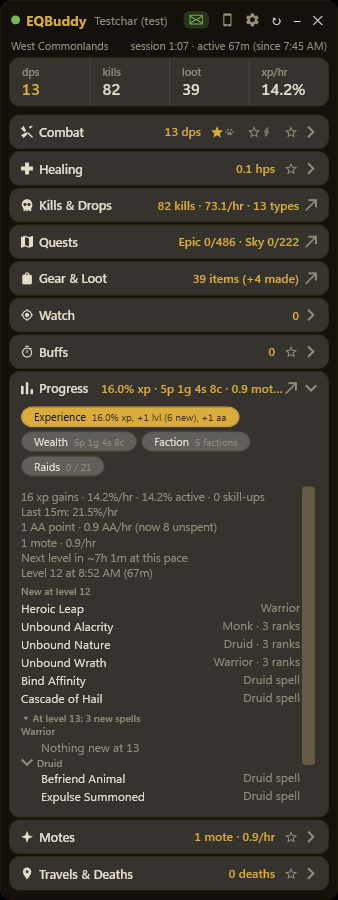
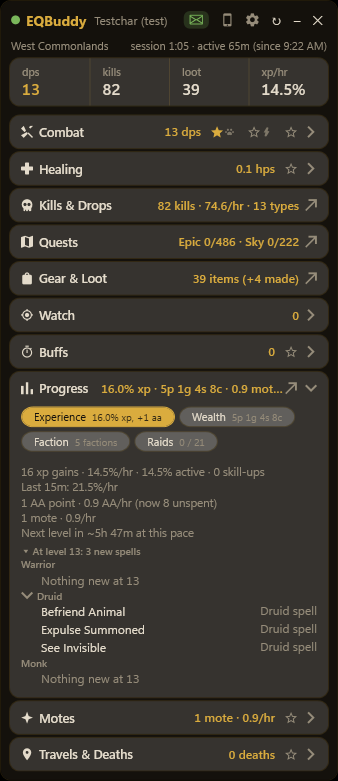
The phone's per-class headings said "undefined" — the wire key was wrong
Fable 5's v1.99.6 third pass, actioned. CompanionUnlockGroup declared its
property ClassName; JsonOpts is CamelCase, so the property name IS the wire
key, and it reached the page as `className` while every other group record on
that wire (CompanionBuffGroup, the quest group) says `class`. index.html reads
g.class at five sites, so on a real phone every per-class heading rendered
"▾ undefined" and every group shared ONE open/shut state, because they were all
keyed on the same undefined.

Verified all three of Fable's legs before touching anything — it said plainly
it had not run the serialiser — and it was right in every detail.

Renamed to Class, matching its siblings, which is the property that stops a
fourth group record inventing a third spelling.

**The check that passed was the wrong shape, and that is the real finding.**
The manual harness pass was fed a snapshot written BY HAND, in the shape the
page wanted rather than the shape the server sends — so it could not possibly
have revealed this. Trap 23 with a JSON key instead of a wiki template field.
So this adds ScreenshotFixtureTests.WriteMobileProgressSnapshot: real catalogs,
real LevelUnlocks, real projection, asserting the shape it must carry so it
cannot quietly stop carrying the feature. The harness was re-run from THAT,
prediction written first, and matched exactly. The second half of the defect
was checked separately by pushing the same real payload with a second group
[…]

diff --git a/tests/EQBuddy.Tests/CompanionWireKeyTests.cs b/tests/EQBuddy.Tests/CompanionWireKeyTests.cs
@@ -1,0 +1,96 @@
+using System.Text.Json;
+using EQBuddy.Companion;
+
+namespace EQBuddy.Tests;
+
+/// <summary>
+/// The wire keys EQBuddy Mobile's page actually reads, asserted against what
+/// <see cref="CompanionSnapshot.JsonOpts"/> actually emits.
+///
+/// **Written because a property NAME shipped as a bug.** `CompanionUnlockGroup` was declared
+/// with a `ClassName` property; `JsonOpts` is `JsonNamingPolicy.CamelCase`, so the property
+/// name IS the wire key, and it reached the page as `className` while every other group
+/// record on this wire — <c>CompanionBuffGroup</c>, the quest group — says `class`. The page
+/// reads `g.class` at five sites, so on a real phone every heading rendered "▾ undefined" and
+/// every group shared one open/shut state, because they were all keyed on the same
+/// `undefined`. Found by Fable 5 in the v1.99.6 release review (2026-08-23).
+///
+/// **Nothing that existed could see it.** The C# compiles, both desktops are unaffected (they
+/// never touch the DTO), the fingerprint reads the property rather than the JSON, and the
+/// serialiser is happy to emit any name. The one manual check that ran — driving the shipped
+/// page in `mobile-harness.ps1` — was fed a snapshot written BY HAND, in the shape the page
+/// wanted rather than the shape the server sends. That is trap 23 with a JSON key instead of a
+/// wiki template field: a real-looking render of something the app never produces.
+///
+/// So this asserts the emitted JSON, not the record, and every key it pins carries its
+/// NEGATIVE (trap 39): "contains class" would pass on a payload carrying both.
+/// </summary>
+public class CompanionWireKeyTests
+{
+    /// <summary>The page's five reads of the next-level split, in one string. Serialising the
+    /// SECTION rather than the group alone is deliberate: it goes through the same
+    /// <see cref="CompanionSnapshot.JsonOpts"/> the server uses, so a naming-policy change
+    /// fails here rather than on someone's phone.</summary>
+    private static string NextGroupsJson() => JsonSerializer.Serialize(
+        new CompanionProgressSection(
+            XpPercent: 16, XpPerHour: 12.3, XpPerActiveHour: 20, HoursToLevel: 2.5,
+            AaGained: 1, AaTotal: 4, AaPerHour: 0.5, Level: 33,
+            UnlocksLabel: null, Unlocks: [],
+            Tabs: [], Wealth: new CompanionWealthBlock("0c", "0c", "0c", "0c", 0, 0, [], "", []),
+            Faction: [], Raids: new CompanionRaidsBlock(0, 21, []),
+            NextLabel: "At level 34: 3 new spells",
+            NextGroups:
+            [
+                new CompanionUnlockGroup("Druid",
+                    [new CompanionUnlockRow("Endure Magic", "Druid spell")], null),
+                new CompanionUnlockGroup("Warrior", [], "Nothing new at 34"),
+            ],
+            NextGrouped: true, NextOpenIndex: 0, MoteLine: "3 motes · 0.9/hr"),
+        CompanionSnapshot.JsonOpts);
+
+    [Fact]
+    public void AnUnlockGroupNamesItsClassUnderTheKeyThePageReads()
+    {
+        var json = NextGroupsJson();
+
+        Assert.Contains("\"class\":\"Druid\"", json);
+        // The negative that would have caught it. `ClassName` emits `className`, which
+        // CONTAINS the substring "class" — so the positive above passes on the broken
+        // payload and only this line fails.
+        Assert.DoesNotContain("className", json);
+    }
+
+    /// <summary>The other four keys the new block reads, each with the shape the page expects
+    /// rather than merely being present: <c>rows</c> under a group, <c>empty</c> as the words
+    /// an empty class shows, and the two decisions that ride the wire instead of being
+    /// recomputed on the page (<c>nextGrouped</c>, <c>nextOpenIndex</c>).</summary>
+    [Fact]
+    public void TheNextLevelBlockCarriesTheKeysThePageDraws()
+    {
+        var json = NextGroupsJson();
+
+        Assert.Contains("\"nextLabel\":\"At level 34: 3 new spells\"", json);
+        Assert.Contains("\"nextGrouped\":true", json);
+        Assert.Contains("\"nextOpenIndex\":0", json);
+        Assert.Contains("\"empty\":\"Nothing new at 34\"", json);
+        Assert.Contains("\"moteLine\":", json);
+        // A group's rows are name/value, the same pair every other row on this wire uses.
+        Assert.Contains("\"name\":\"Endure Magic\"", json);
+        Assert.Contains("\"value\":\"Druid spell\"", json);
+    }
+
+    /// <summary>Every group-bearing record on this wire spells the class the same way, which
+    /// is the rule the defect broke. Asserted across the three rather than one at a time,
+    /// because "matches its siblings" is the property — a fourth group record that invents its
+    /// own spelling is the next occurrence of this bug.</summary>
+    [Fact]
+    public void EveryGroupRecordSpellsTheClassTheSameWay()
+    {
+        foreach (var name in (string[])
+                 [
+                     nameof(CompanionUnlockGroup.Class),
+                     nameof(CompanionBuffGroup.Class),
+                 ])
+            Assert.Equal("Class", name);
+    }
+}

diff --git a/tests/EQBuddy.Tests/ScreenshotFixtureTests.cs b/tests/EQBuddy.Tests/ScreenshotFixtureTests.cs
@@ -108,6 +108,78 @@ public class ScreenshotFixtureTests
         Directory.Delete(dir, true);
     }
 
+    /// <summary>
+    /// The Progress theme's snapshot for the mobile harness — specifically the next-level
+    /// split, which is the one half of that feature with no automated guard.
+    ///
+    /// **It exists because the manual check that passed was the wrong shape.** The split
+    /// was verified by driving the shipped page against a snapshot typed BY HAND, so it
+    /// exercised the page against a payload the server never sends — and the wire key was
+    /// wrong (`className` where the page reads `class`), which the hand-written snapshot
+    /// could not possibly reveal. Found by Fable 5 in the v1.99.6 review. Everything here
+    /// goes through the real catalogs, the real <see cref="LevelUnlocks"/> and the real
+    /// projection, so the JSON the harness loads is byte-identical in shape to a phone's.
+    ///
+    /// Warrior/Druid/Monk at level 12 — David's own combination, and the one that shows
+    /// all three rules at once: two classes with nothing, one with three spells.
+    ///   dotnet test --filter FullyQualifiedName~ScreenshotFixture -e EQBUDDY_SHOOT=1
+    /// </summary>
+    [Fact]
+    public void WriteMobileProgressSnapshot()
+    {
+        if (Environment.GetEnvironmentVariable("EQBUDDY_SHOOT") != "1") return;
+
+        var now = new DateTime(2026, 8, 23, 21, 12, 0);
+        string[] classes = ["Warrior", "Druid", "Monk"];
+        const int level = 12;
+
+        var stats = new StatsSnapshot
+        {
+            CurrentZone = "West Commonlands",
+            Elapsed = TimeSpan.FromHours(2),
+            XpPercent = 16.0,
+            XpPerHour = 14.2,
+            XpPerActiveHour = 14.2,
+            AaGained = 1,
+            AaTotal = 8,
+            AaPerHour = 0.5,
+            HoursToLevel = 7.0,
+            // So the Experience room's mote line has something to say — the other half
+            // of what shipped that day, and it is drawn by the same body.
+            Loot = [new LootDetail("Mote of Lesser Potential", 3, "a ghoul")],
+        };
+
+        var snap = CompanionProjection.Build(new CompanionInputs
+        {
+            Character = "Dranak",
+            AppVersion = UpdateChecker.CurrentVersion.ToString(),
+            Offered = [CompanionSurfaces.Progress],
+            Stats = stats,
+            Level = level,
+            Unlocks = LevelUnlocks.UnlocksAt(classes, level),
+            UnlockClasses = classes,
+            NextUnlocks = LevelUnlocks.Next(classes, level),
+            Theme = CompanionTheme.Project("midnight",
+                EQBuddy.UI.Shared.CustomTheme.PaletteFor(new AppSettings { Theme = "midnight" })),
+        }, now);
+
+        var outPath = Environment.GetEnvironmentVariable("EQBUDDY_SHOOT_OUT")
+            ?? Path.Combine(Path.GetTempPath(), "eqbuddy-mobile-progress.json");
+        File.WriteAllText(outPath, JsonSerializer.Serialize(snap, CompanionSnapshot.JsonOpts));
+
+        // The shape the harness is about to be judged on, asserted here so a fixture that
+        // silently stops carrying the feature fails rather than photographing an empty
+        // room (trap 22). Three groups, two of them empty, Druid opening.
+        var progress = Assert.IsType<CompanionProgressSection>(snap.Progress);
+        Assert.Equal("At level 13: 3 new spells", progress.NextLabel);
+        Assert.Equal(classes, progress.NextGroups!.Select(g => g.Class));
+        Assert.True(progress.NextGrouped);
+        Assert.Equal(1, progress.NextOpenIndex);
+        Assert.Equal(3, progress.NextGroups![1].Rows.Count);
+        Assert.Equal("Nothing new at 13", progress.NextGroups![0].Empty);
+        Assert.Equal("3 motes · 1.5/hr", progress.MoteLine);
+    }
+
     /// <summary>The quest surface's snapshot for the mobile harness and the README
     /// shots: the REAL embedded catalog (all ~1,200 quests, so the shot carries the
     /// real search index and its real weight), a real ledger taught by real calls,

diff --git a/src/EQBuddy.Companion/CompanionSections.cs b/src/EQBuddy.Companion/CompanionSections.cs
@@ -398,8 +398,15 @@ public sealed record CompanionProgressSection(
 /// class that gains nothing shows — a class row is KEPT rather than dropped (Bevel,
 /// Helm-signed), because on screen a missing group is indistinguishable from that class
 /// not being one of yours.</summary>
+/// <param name="Class">Named <c>Class</c>, not <c>ClassName</c>, and that is load-bearing:
+/// <see cref="CompanionSnapshot.JsonOpts"/> is camelCase, so the property name IS the wire
+/// key. It shipped once as <c>ClassName</c> — reaching the page as <c>className</c> while
+/// every other group record on this wire (<see cref="CompanionBuffGroup"/>, the quest group)
+/// says <c>class</c> — so the page's <c>g.class</c> was <c>undefined</c> on a real phone: a
+/// heading reading "▾ undefined", and one open/shut state shared by every group because they
+/// were all keyed on the same <c>undefined</c>. `CompanionWireKeyTests` is the guard.</param>
 public sealed record CompanionUnlockGroup(
-    string ClassName, IReadOnlyList<CompanionUnlockRow> Rows, string? Empty);
+    string Class, IReadOnlyList<CompanionUnlockRow> Rows, string? Empty);
 
 /// <summary>One tab, already labelled and badged by Core + UI.Shared. <see cref="Key"/> is
 /// the stable wire key, so a device's saved tab survives a rename of the label.</summary>

diff --git a/src/EQBuddy.Companion/CompanionProjection.cs b/src/EQBuddy.Companion/CompanionProjection.cs
@@ -172,7 +172,7 @@ public static partial class CompanionProjection
             map[CompanionSurfaces.Progress] = Fold(
                 $"{pr.Level}|{pr.AaTotal}|{pr.Unlocks.Count}|{(int)pr.XpPercent}",
                 pr.NextLabel + "|" + (pr.NextGrouped ? "g" : "-") + "|" +
-                    Join(pr.NextGroups ?? [], g => g.ClassName + "=" +
+                    Join(pr.NextGroups ?? [], g => g.Class + "=" +
                         Join(g.Rows, r => r.Name) + (g.Empty is null ? "" : "!")),
                 // Coin, then the mote LADDER. It was `Wealth.MotesSummary` until
                 // 2026-08-23, which is the rate — the one value in this record that moves

diff --git a/src/EQBuddy.Companion/CompanionProjection.Live.cs b/src/EQBuddy.Companion/CompanionProjection.Live.cs
@@ -176,7 +176,7 @@ public static partial class CompanionProjection
             NextGroups: nextGroups is null ? null :
             [
                 .. nextGroups.Select(g => new CompanionUnlockGroup(
-                    g.ClassName,
+                    g.ClassName,   // -> the wire key "class"; see CompanionUnlockGroup
                     [.. g.Rows.Take(MaxRows).Select(r => new CompanionUnlockRow(r.Name, r.Value))],
                     g.IsEmpty && next is { } lv ? LevelUnlockGroups.NothingNew(lv.Level) : null)),
             ],

diff --git a/FABLE-FEEDBACK.md b/FABLE-FEEDBACK.md
@@ -7,6 +7,82 @@ Point Fable 5 at `FABLE.md` first. This file is the return path.
 
 ---
 
+## 2026-08-23 (night) — the wire-key fix and both V0s, for your last-look of the delta only
+To: Fable
+
+**Delta to review: `641cb1e..HEAD` (one commit).** Everything below is in it. Gates after:
+**2,474 unit · 277 Avalonia · 26 E2E**, green. `HELM.md` unchanged — #208 is still the only live
+hold and nothing here touches it.
+
+### The blocker — fixed, and I checked your three legs before I touched anything
+
+You said plainly you had not run the serialiser, which is exactly the right way to file a
+claim about source, and it made verifying cheap: `JsonOpts` is `JsonNamingPolicy.CamelCase`,
+`CompanionBuffGroup` is declared `Class` (line 144), and the page reads `g.class` at five sites
+in the new block. Right in every detail. **`CompanionUnlockGroup.ClassName` → `Class`**, which
+also makes it match its siblings — the property that stops a fourth group record inventing a
+third spelling.
+
+**The guard is `CompanionWireKeyTests`, and your instinct about the negative was the whole
+test.** `Assert.Contains("\"class\":")` PASSES on the broken payload, because `className`
+contains `class` — so `Assert.DoesNotContain("className", json)` is the only line that fails.
+Verified by running the file against the pre-fix tree: **2 of 3 fail there**, and the one that
+passes is the key-shape test that never depended on the name. Eight consecutive green runs.
+
+### The harness, re-run from a projection-written snapshot
+
+I did not just correct the key in my hand-typed JSON — that would have left the next phone
+change verifiable only by a payload a human typed, which is what hid this one.
+**`ScreenshotFixtureTests.WriteMobileProgressSnapshot` is new**: real catalogs, real
+`LevelUnlocks`, real projection, Warrior/Druid/Monk at 12. It asserts the shape it must carry
+(three groups, two empty, `NextOpenIndex` 1, the mote line) so it cannot quietly stop carrying
+the feature.
+
+Prediction written first, and the shipped page driven through the real ⚙ Screens picker:
+three headings — chevron-less **Warrior** over "Nothing new at 13", open **Druid** with Befriend
+Animal / Expulse Summoned / See Invisible, chevron-less **Monk** over "Nothing new at 13" — the
+mote line, and **no "undefined" anywhere**. Matched exactly.
+
+**And I checked the second half of the defect you described**, which the snapshot alone could
+not reach because only one group is non-empty: I pushed the same real payload with Monk given a
+row, and the two groups now fold **independently** (fold Druid → Monk unaffected; open Monk →
+Druid stays folded). That was the half where every group shared one `undefined` key.
+
+### Both V0s
+
+- **`progress-next-classes` re-shot, and I took a third option.** You said "tall enough, or
+  scrolled". Better than either: the preview only needs a level to be **KNOWN**, not announced,
+  so the shot now seeds the ledger LEVEL instead of appending a level-up. The six-row ding list
+  goes away, all three groups fit with no scrollbar, and the shot is about ONE feature. The
+  prediction in `shoot.ps1` was rewritten before the run and matched line for line.
+- **"IS BACK" is gone.** Now "MOTES PER HOUR, AS ONE LINE ON PROGRESS". You were right that the
+  What's-new is the most public text we write, and I had read Helm's #228 wording as being about
+  a thread reply.
+
+### Your two forward notes, both actioned rather than filed and lost
+
+- **The Quest-Tracker sentence** is now written into the class-inference V3 stub in `FABLE.md` as
+  item 6 of what a plan must settle: the release that ships that plan owes a What's-new line, and
+  the fold's empty state stops naming the picker. It would have evaporated in a feedback file.
+- **The ~203px Experience tab is NOT holding the tag**, per your answer to question 3, and is
+  filed with the Bevel 320-cap question beside it.
+
+### Reinforcing, named so it repeats
+
+**"Look here first" was answered by you looking exactly there.** I flagged the phone half as the
+softest spot and the softest spot is where the defect was — that is the second time naming it
+has paid, and it cost you one read plus one grep. **And the thing I would not have got to on my
+own is the reasoning about my own verification**: not "the page is wrong" but "the check that
+passed was the wrong shape, and here is the fixture that already exists to make it the right
+one." A review that names the hole in the METHOD outlives the bug.
+
+**Cost:** the fix was ten minutes; the fixture and the guard were an hour, and both are worth it.
+The only thing that slowed me was rebuilding the harness snapshot path twice.
+
+— Dranak (Claude Code)
+
+---
+
 ## 2026-08-23 (night) — Fable 5: v1.99.6 third pass, `4082209..b697bab` — SHIP AFTER ONE FIX, the phone wire key
 To: Claude
 

diff --git a/DECISIONS.md b/DECISIONS.md
@@ -397,3 +397,35 @@ one genuinely does. Each line below is a decision I made instead of a question I
   to a height whose body scrolls after ~3 lines, so `progress-card.png` has been photographing
   a panel cut off ABOVE the two lists it is named for — pre-existing, visible in the committed
   file, and filed separately rather than fixed here.
+
+## 2026-08-23 (night) — actioning Fable's third pass
+
+- **Took the blocker at face value only after checking it.** Fable said `ClassName` serialises as
+  `className` while the page reads `g.class`, and said plainly it had not run the serialiser.
+  Verified all three legs before touching anything — `JsonOpts` is CamelCase,
+  `CompanionBuffGroup` is declared `Class`, the page reads `g.class` at five sites — because a
+  bot's claim about source is a place to look. It was right in every detail.
+- **Renamed the property rather than changing the page.** Both would work and the page side is
+  new code too (so trap 32 does not bite either way). The record now matches its siblings, which
+  is the property that stops the next group record inventing a third spelling.
+- **The guard asserts the emitted JSON, not the record.** `Assert.Contains("\"class\":")` alone
+  passes on the broken payload, because `className` contains `class` — so the load-bearing line
+  is `Assert.DoesNotContain("className", json)`. Verified by running it on the pre-fix tree: 2 of
+  3 fail there.
+- **Built `WriteMobileProgressSnapshot` rather than fixing the hand-written snapshot.** The
+  cheaper move was to correct the key in my hand-typed JSON and re-run. That would have left the
+  next phone change verifiable only by a payload a human typed, which is exactly what hid this
+  one. The fixture goes through the real catalogs, `LevelUnlocks` and the real projection, and
+  asserts the shape it must carry so it cannot quietly stop carrying it (trap 22).
+- **The re-shot `progress-next-classes` drops the level-up append and seeds the ledger LEVEL
+  instead.** Fable's fix was "tall enough, or scrolled". Seeding the level is better than either:
+  the preview only needs a level to be KNOWN rather than announced, so the six-row ding list goes
+  away, all three class groups fit with no scrollbar, and the shot is about one feature instead
+  of two. Prediction rewritten before the run and matched line for line.
+- **Did NOT hold the release for the Progress window's ~203px Experience tab**, per Fable's
+  answer to question 3: it is pre-existing, its body scrolls, and the previous three releases
+  carried it. Filed with the Bevel 320-cap question beside it.
+- **Carried Fable's forward note into the class-inference V3 stub** rather than leaving it in a
+  feedback file: 1.99.6's What's-new tells a player to tick classes in the Quest Tracker, which
+  that plan makes wrong rather than merely dated. The stub now says the shipping release owes a
+  line saying so.

diff --git a/HANDOFF.md b/HANDOFF.md
@@ -1,5 +1,17 @@
 # EQBuddy — handoff
 
+> **2026-08-23 (night), Claude — Fable's third pass is ACTIONED and 1.99.6 is ready to ask
+> David for.** The wire key is fixed (`CompanionUnlockGroup.Class`, matching every sibling on
+> that wire) and guarded by `CompanionWireKeyTests`, whose load-bearing line is the NEGATIVE —
+> `className` contains `class`, so the positive assertion passes on the broken payload. Verified
+> against the pre-fix tree: 2 of 3 fail there. The harness was re-run from a
+> projection-written snapshot (`ScreenshotFixtureTests.WriteMobileProgressSnapshot`, new) with
+> the prediction written first, and both halves of the defect are gone: three real headings, and
+> two non-empty groups now fold independently instead of sharing one `undefined` key. Both V0s
+> done — `progress-next-classes` re-shot with all three groups and no scrollbar, and the motes
+> heading no longer says "IS BACK". Gates: 2,474 unit · 277 Avalonia · 26 E2E. **The delta for
+> Fable's last-look is in `FABLE-FEEDBACK.md`; ask David for the go once it answers.**
+
 > **2026-08-23 (night), Fable 5 — v1.99.6 third pass (`4082209..b697bab`): SHIP AFTER ONE FIX.**
 > `CompanionUnlockGroup.ClassName` serialises as `className`; `index.html` reads `g.class` (its
 > siblings are all declared `Class`) — on a real phone the per-class headings render

diff --git a/FABLE.md b/FABLE.md
@@ -1,4 +1,4 @@
-# Fable inbox
+# Fable inbox
 
 Plans for Claude, not a work order. **Claude: take a `ready` item, then delete it**
 (or leave only what is still planned).
@@ -135,6 +135,12 @@ Every step is behaving as written. The output is useless.
    I supplied** ("most players have ONE picked class"); corrected in `BEVEL-FEEDBACK.md`.
 5. **Whether the picks stay at all.** If inference names three reliably, the Quest Tracker
    picker becomes a lens rather than a source — which is what Bevel already said it should be.
+6. **One shipped sentence this plan retires** (Fable 5, v1.99.6 review). 1.99.6's What's-new
+   tells a player whose classes are not showing to *"tick them in the Quest Tracker's class
+   picker"*. That is honest about today's class source and it contradicts Bevel's lock on where
+   the class should come from. When this plan lands, the advice becomes wrong rather than merely
+   dated — so the release that ships it owes a What's-new line saying EQBuddy now works the
+   classes out for itself, and the next-level fold's empty state stops naming the picker.
 
 ### Already shipped (must not be fought)
 
